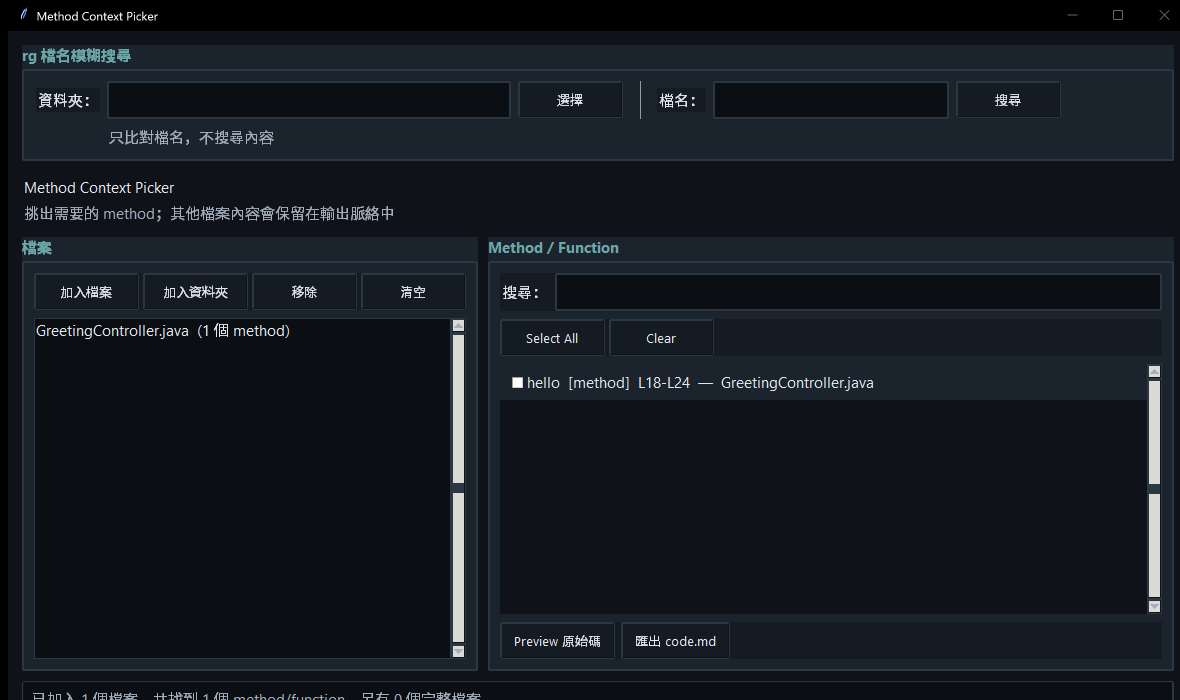
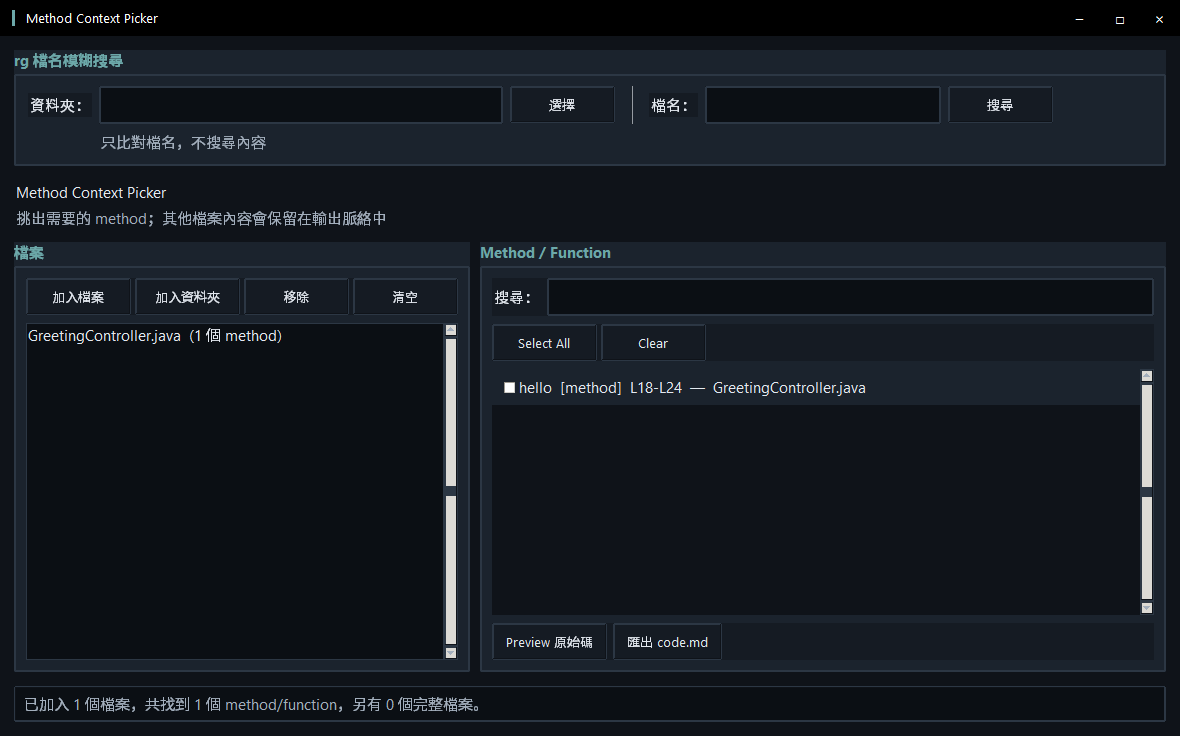
fix: use custom dark title bar

diff --git a/method_context_picker/app.py b/method_context_picker/app.py
@@ -2,11 +2,8 @@
 
 from __future__ import annotations
 
-import ctypes
-import ctypes.wintypes
 from pathlib import Path
 import re
-import sys
 import tkinter as tk
 from tkinter import filedialog, messagebox, ttk
 from tkinter.scrolledtext import ScrolledText
@@ -125,54 +122,114 @@ PREVIEW_TOKEN_PATTERN = re.compile(
 )
 
 
-def _apply_windows_titlebar_theme(window: tk.Misc) -> None:
-    """將 Windows 原生標題列設成黑底白字，其他平台則略過。"""
+class _DarkTitleBar:
+    """提供不受 Windows 主題影響的黑色自訂標題列。"""
 
-    if sys.platform != "win32":
-        return
+    def __init__(self, window: tk.Misc, title: str) -> None:
+        self.window = window
+        self._drag_offset_x = 0
+        self._drag_offset_y = 0
+        self._restore_geometry = ""
+        self._is_maximized = False
 
-    try:
-        window.update_idletasks()
-        dwmapi = ctypes.WinDLL("dwmapi")
-        set_attribute = dwmapi.DwmSetWindowAttribute
-        set_attribute.argtypes = [
-            ctypes.wintypes.HWND,
-            ctypes.wintypes.DWORD,
-            ctypes.c_void_p,
-            ctypes.wintypes.DWORD,
-        ]
-        set_attribute.restype = ctypes.wintypes.LONG
-        user32 = ctypes.windll.user32
-        get_ancestor = user32.GetAncestor
-        get_ancestor.argtypes = [ctypes.wintypes.HWND, ctypes.wintypes.UINT]
-        get_ancestor.restype = ctypes.wintypes.HWND
-        child_hwnd = ctypes.wintypes.HWND(window.winfo_id())
-        hwnd = get_ancestor(child_hwnd, 2) or child_hwnd
+        self.window.overrideredirect(True)
+        self.window.protocol("WM_DELETE_WINDOW", self.window.destroy)
+        self.window.bind("<Map>", self._restore_borderless, add="+")
 
-        # Windows 11 與 Windows 10 使用不同的深色模式屬性編號。
-        dark_mode = ctypes.c_int(1)
-        for attribute in (20, 19):
-            result = set_attribute(
-                hwnd,
-                attribute,
-                ctypes.byref(dark_mode),
-                ctypes.sizeof(dark_mode),
-            )
-            if result == 0:
-                break
+        bar = tk.Frame(window, background="#000000", height=36, highlightthickness=0)
+        bar.pack(side="top", fill="x")
+        bar.pack_propagate(False)
 
-        # COLORREF 使用 0x00BBGGRR；黑色為 0，白色為 0x00FFFFFF。
-        for attribute, color in ((34, 0x00000000), (35, 0x00000000), (36, 0x00FFFFFF)):
-            color_value = ctypes.c_uint(color)
-            set_attribute(
-                hwnd,
-                attribute,
-                ctypes.byref(color_value),
-                ctypes.sizeof(color_value),
-            )
-    except (AttributeError, OSError, tk.TclError):
-        # 舊版 Windows 或非標準 Tk 環境不支援時，保留系統預設標題列。
-        return
+        accent = tk.Frame(bar, background=DARK_PALETTE["accent"], width=3)
+        accent.pack(side="left", padx=(12, 8), pady=10, fill="y")
+        title_label = tk.Label(
+            bar,
+            text=title,
+            background="#000000",
+            foreground="#FFFFFF",
+            font=("Segoe UI", 10),
+            anchor="w",
+        )
+        title_label.pack(side="left", fill="y")
+
+        close_button = self._make_control(bar, "×", self.window.destroy, "#C42B1C")
+        close_button.pack(side="right", fill="y")
+        maximize_button = self._make_control(bar, "□", self._toggle_maximize, "#242A33")
+        maximize_button.pack(side="right", fill="y")
+        minimize_button = self._make_control(bar, "−", self._minimize, "#242A33")
+        minimize_button.pack(side="right", fill="y")
+
+        for widget in (bar, accent, title_label):
+            widget.bind("<ButtonPress-1>", self._start_drag)
+            widget.bind("<B1-Motion>", self._drag_window)
+            widget.bind("<Double-Button-1>", lambda _event: self._toggle_maximize())
+
+    @staticmethod
+    def _make_control(
+        parent: tk.Frame,
+        symbol: str,
+        command: object,
+        active_background: str,
+    ) -> tk.Button:
+        """建立標題列按鈕，維持黑底白字與滑過回饋。"""
+
+        return tk.Button(
+            parent,
+            text=symbol,
+            command=command,
+            background="#000000",
+            foreground="#FFFFFF",
+            activebackground=active_background,
+            activeforeground="#FFFFFF",
+            borderwidth=0,
+            highlightthickness=0,
+            font=("Segoe UI", 12),
+            width=4,
+            cursor="hand2",
+        )
+
+    def _start_drag(self, event: tk.Event) -> None:
+        """記錄拖曳開始位置。"""
+
+        if self._is_maximized:
+            return
+        self._drag_offset_x = event.x_root - self.window.winfo_x()
+        self._drag_offset_y = event.y_root - self.window.winfo_y()
+
+    def _drag_window(self, event: tk.Event) -> None:
+        """拖動黑色標題列以移動視窗。"""
+
+        if self._is_maximized:
+            return
+        x = event.x_root - self._drag_offset_x
+        y = event.y_root - self._drag_offset_y
+        self.window.geometry(f"+{x}+{y}")
+
+    def _toggle_maximize(self) -> None:
+        """在原尺寸與可用螢幕尺寸之間切換。"""
+
+        if self._is_maximized:
+            self.window.geometry(self._restore_geometry)
+            self._is_maximized = False
+            return
+
+        self._restore_geometry = self.window.geometry()
+        screen_width = self.window.winfo_screenwidth()
+        screen_height = self.window.winfo_screenheight() - 40
+        self.window.geometry(f"{screen_width}x{screen_height}+0+0")
+        self._is_maximized = True
+
+    def _minimize(self) -> None:
+        """最小化前暫時恢復系統外框，確保可從工作列還原。"""
+
+        self.window.overrideredirect(False)
+        self.window.iconify()
+
+    def _restore_borderless(self, _event: tk.Event) -> None:
+        """從工作列還原後重新啟用自訂標題列。"""
+
+        if self.window.state() != "iconic":
+            self.window.after_idle(lambda: self.window.overrideredirect(True))
 
 
 class MethodContextPickerApp:
@@ -181,8 +238,8 @@ class MethodContextPickerApp:
     def __init__(self, root: tk.Tk) -> None:
         self.root = root
         self.root.title("Method Context Picker")
-        self.root.geometry("1180x700")
-        self.root.minsize(960, 620)
+        self.root.geometry("1180x736")
+        self.root.minsize(960, 656)
 
         self.file_methods: dict[Path, list[MethodInfo]] = {}
         self.file_sources: dict[Path, str] = {}
@@ -194,8 +251,8 @@ class MethodContextPickerApp:
         self.search_var = tk.StringVar()
         self.status_var = tk.StringVar(value="請先加入 Java、JavaScript 或 JSP 檔案。")
 
+        self._titlebar = _DarkTitleBar(self.root, "Method Context Picker")
         self._configure_dark_theme()
-        _apply_windows_titlebar_theme(self.root)
         self._build_ui()
         self._refresh_method_list()
 
@@ -315,6 +372,17 @@ class MethodContextPickerApp:
     def _build_ui(self) -> None:
         """建立主視窗元件。"""
 
+        status = ttk.Label(
+            self.root,
+            textvariable=self.status_var,
+            anchor="w",
+            relief="sunken",
+            padding=(8, 6),
+            style="Status.TLabel",
+        )
+        # 狀態列固定由根視窗保留空間，避免內容面板拉高時截斷文字。
+        status.pack(side="bottom", fill="x", padx=14, pady=(0, 14))
+
         container = ttk.Frame(self.root, padding=14, style="App.TFrame")
         container.pack(fill="both", expand=True)
         container.columnconfigure(0, weight=0, minsize=320)
@@ -337,16 +405,6 @@ class MethodContextPickerApp:
 
         self._build_file_panel(container)
         self._build_method_panel(container)
-
-        status = ttk.Label(
-            container,
-            textvariable=self.status_var,
-            anchor="w",
-            relief="sunken",
-            padding=(8, 6),
-            style="Status.TLabel",
-        )
-        status.grid(row=3, column=0, columnspan=2, sticky="ew", pady=(10, 0))
 
     def _build_file_panel(self, parent: ttk.Frame) -> None:
         """建立左側檔案清單與檔案操作按鈕。"""
@@ -659,10 +717,10 @@ class MethodContextPickerApp:
 
         preview = tk.Toplevel(self.root)
         preview.title("Preview 原始碼")
-        preview.geometry("1000x700")
-        preview.minsize(600, 400)
+        preview.geometry("1000x736")
+        preview.minsize(600, 436)
         preview.configure(background=DARK_PALETTE["background"])
-        _apply_windows_titlebar_theme(preview)
+        preview._titlebar = _DarkTitleBar(preview, "Preview 原始碼")
         text = ScrolledText(
             preview,
             wrap="none",

diff --git a/README.md b/README.md
@@ -24,7 +24,7 @@
 - `Clear`：清除全部勾選
 - `Preview 原始碼`：預覽已勾選的原始碼
 - Preview 內建 IDE 風格語法配色：關鍵字、型別、字串、註解、數字與 annotation 分色
-- Preview 使用黑色原生標題列與白色文字，和深色程式碼編輯區保持一致
+- 主視窗與 Preview 使用黑色自訂標題列、白色文字與視窗控制按鈕，和深色程式碼編輯區保持一致
 - `匯出 code.md`：輸出含檔名、語言、行號與原始碼的 Markdown
 - 輸出只提供不含本機使用者目錄的專案標籤加路徑 FilePath；package、import、annotation、class 宣告與欄位也會保留，只移除未勾選的其他 method
 - 深色主題：以深色背景、青色 accent 與等寬程式碼預覽降低長時間閱讀負擔
